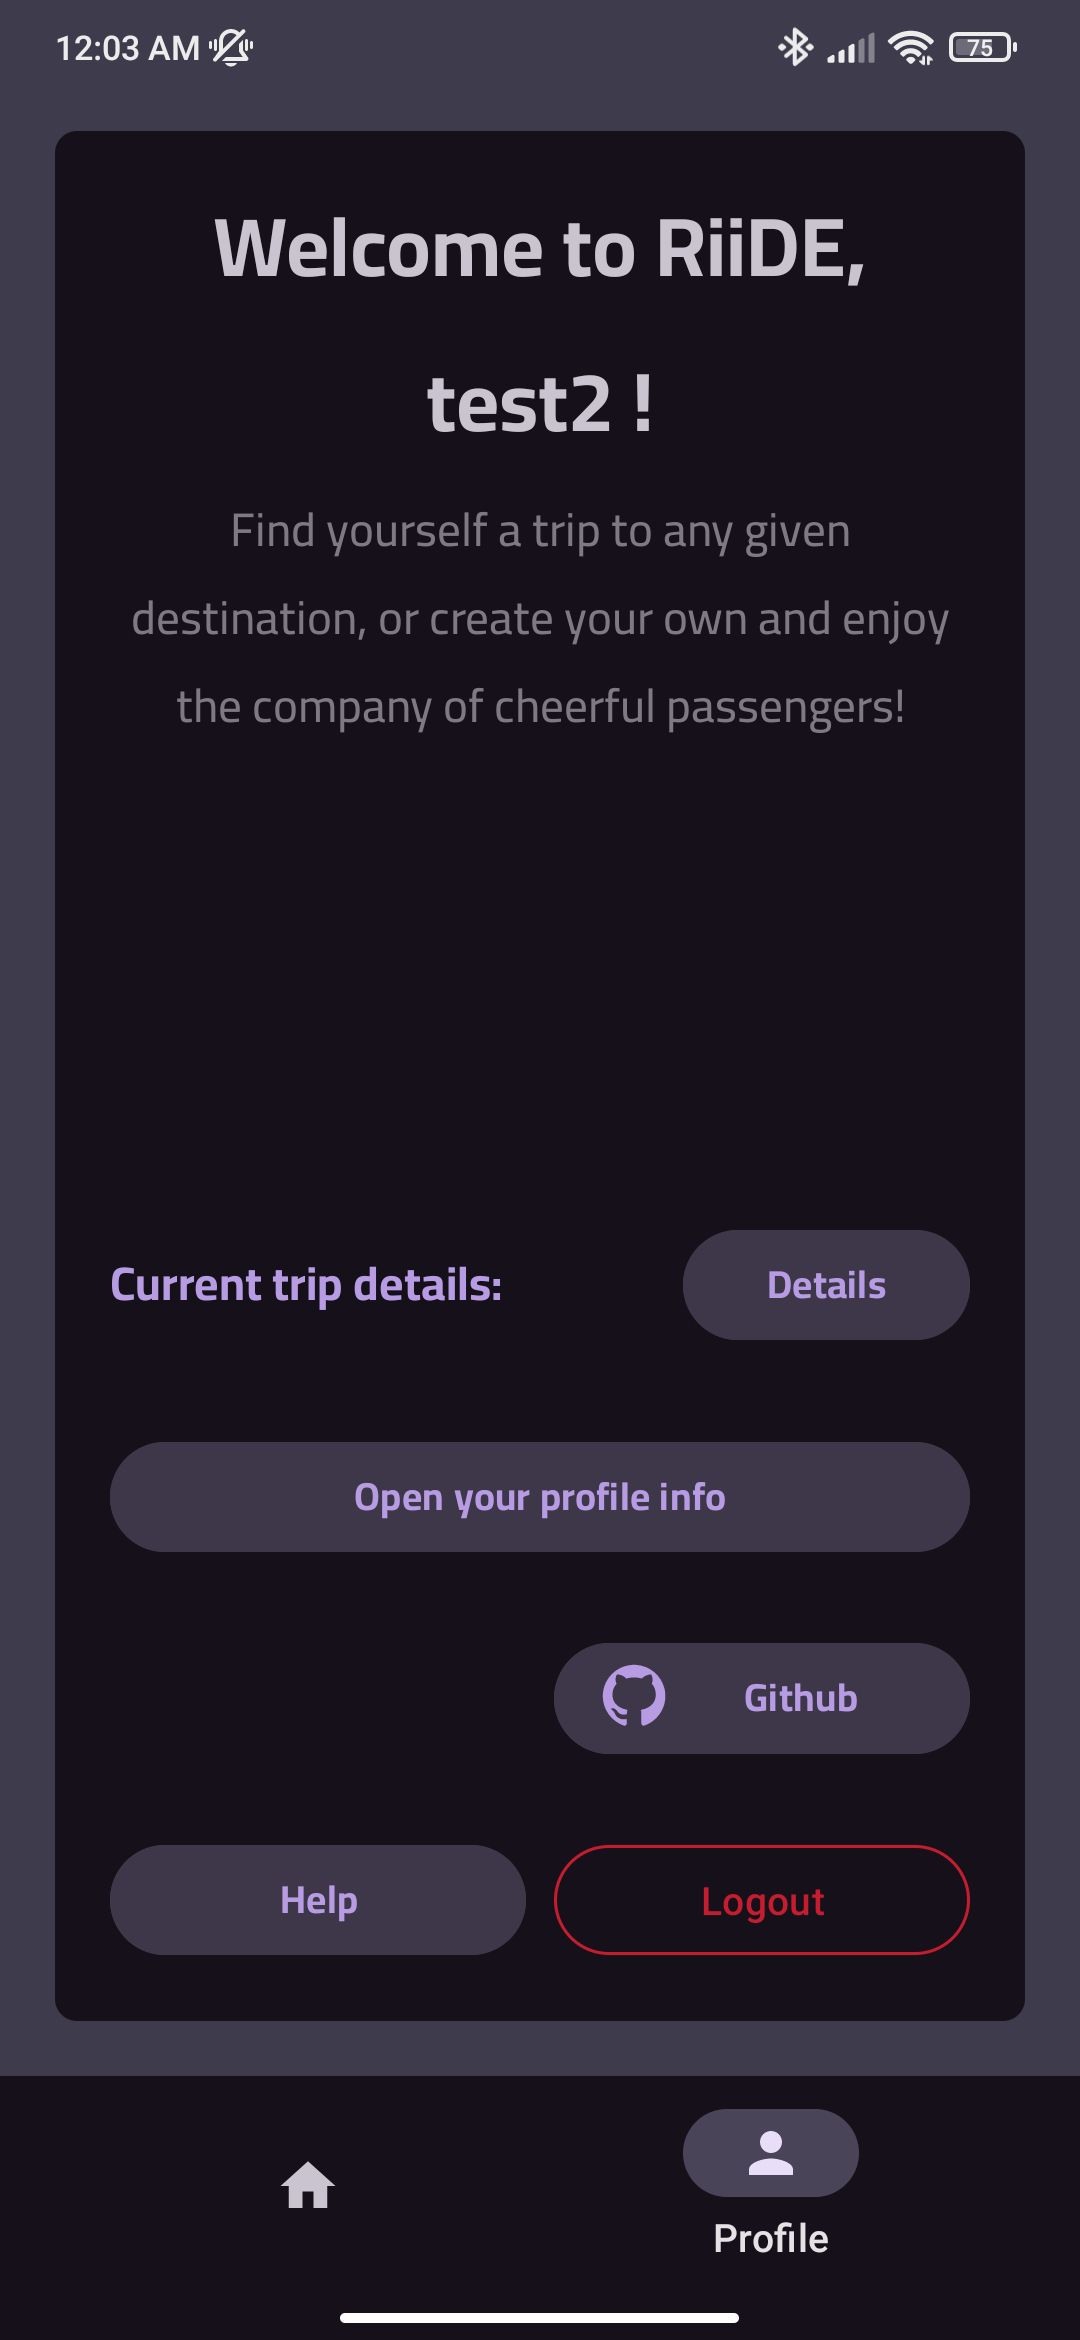
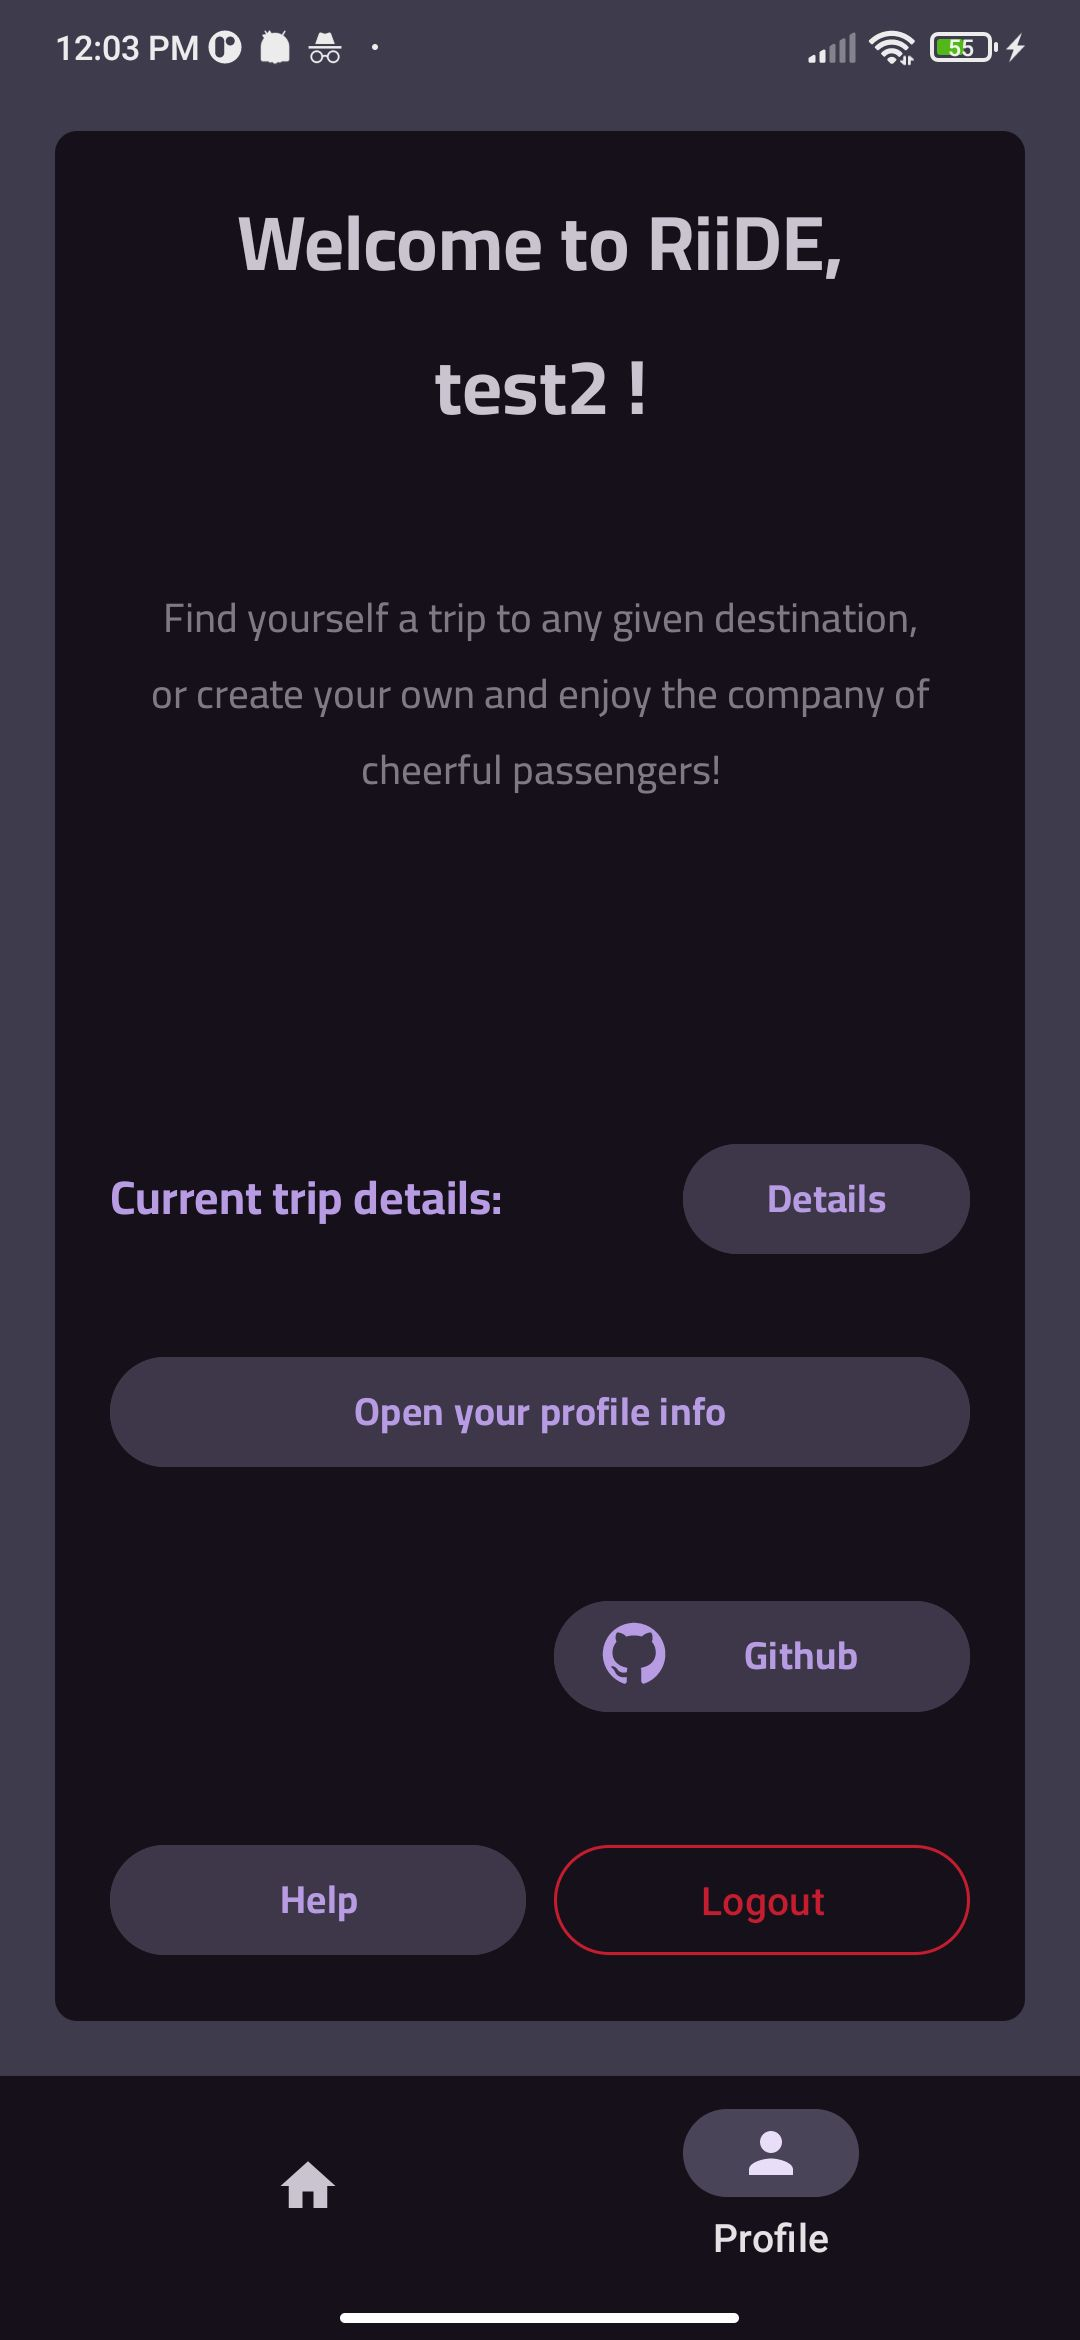
Bug fixes in v0.1: Fixed some stuff not scaling properly System dark mode should no longer mess with the colors Improved .gitignore

diff --git a/app/src/main/java/dz/notacompany/riide/ProfileLoggedinFragment.kt b/app/src/main/java/dz/notacompany/riide/ProfileLoggedinFragment.kt
@@ -44,7 +44,7 @@ class ProfileLoggedinFragment : Fragment(R.layout.fragment_profile_loggedin) {
         isInTripTv = requireView().findViewById(R.id.isInTripTv)
         welcomeTv = requireView().findViewById(R.id.welcomeProfileTv)
 
-        welcomeTv.text = "Welcome to RiiDE, ${(activity as MainActivity).username} !"
+        welcomeTv.text = "Welcome to RiiDE,\n${(activity as MainActivity).username} !"
 
         // Display the trip user state from the cached variable
         if ((activity as MainActivity).isInTrip) {
